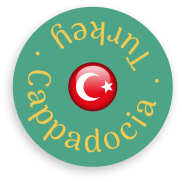
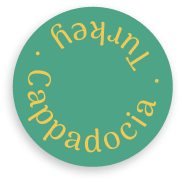
responsiv font image fixed

Changed region(s): [[0.3571, 0.3297, 0.6593, 0.6319]]

diff --git a/styles/basic.css b/styles/basic.css
@@ -54,7 +54,7 @@ body {
 
 .top {
   display: flex;
-  max-width: 99%;
+  max-width: 100%;
   position: relative;
   height: 515px;
   padding: 0px 12px;
@@ -142,9 +142,7 @@ body {
   justify-content: center;
   align-items: center;
   flex-direction: column;
-  /* padding-bottom: 137px; */
   width: 100%;
- 
 }
 .video_img {
   width: 931px;
@@ -159,21 +157,27 @@ body {
 
 }
 .description_content {
+  max-width: 100%;
 padding-left: 30px;
 padding-right: 16px;
 padding-bottom: 32px;
 font-size: 24px;
 line-height: 1;
 }
-.description_content ul {
+.description_content ol {
   margin: 16px 16px;
 }
 .desc_cont {
+  max-width: 100%;
   padding-top: 16px;
   margin: 0px 33.5px;
 }
 .desc_1{
   margin-bottom: 32px;
+}
+.left_max{
+  width: 100%;
+  align-items: start;
 }
 .tip_content {
   max-width: 100%;
@@ -182,7 +186,7 @@ line-height: 1;
   justify-content: center;
   align-items: center;
   position: relative;
-  padding: 0 34px;
+  padding: 24px 34px;
 }
 .tipps-icon {
   z-index: 2;
@@ -385,6 +389,10 @@ input[type="checkbox"] {
   max-width: 100%;
   font-size: 24px;
   margin-bottom: 16px;
+  margin-top: 16px;
+}
+.m_64{
+  margin-top: 64px;
 }
 .form_u {
   padding: 0px 16px;
@@ -523,7 +531,7 @@ input[type="checkbox"] {
     display: none;
   }
   .crs_1{
-    padding: 0px max{calc(50% - 720px)};
+    padding: 0px max(calc(50% - 720px));
   }
 }
 @media screen and (min-width: 1280px) {
@@ -546,7 +554,7 @@ input[type="checkbox"] {
     display: none;
   }
   .crs_1{
-    padding: 0px max{calc(50% - 720px)};
+    padding: 0px max(calc(50% - 720px));
   }
 }
 @media screen and (min-width: 484px) and (max-width: 767px) {
@@ -575,6 +583,9 @@ input[type="checkbox"] {
   }
   .scandy_tour{
     padding-bottom: 24px;
+  }
+  .description_content {
+    padding: 8px 16px;
   }
 }
 @media screen and (min-width: 4px) and (max-width: 840px) {
@@ -647,8 +658,7 @@ input[type="checkbox"] {
   }
   .description_content {
     font-size: 16px;
-    padding-bottom: 16px;
-    padding-top: 16px;
+    padding: 8px 16px;
   }
   .video_content{
     padding: 24px 0px;
@@ -700,6 +710,9 @@ input[type="checkbox"] {
   }
   .date_time{
     margin-bottom: 8px;
+  }
+  .m_64{
+    margin-top: 24px;
   }
 }
 @media screen and (min-width: 4px) and (max-width: 479px) {

diff --git a/index.html b/index.html
@@ -35,6 +35,7 @@
 
     <section class="top" id="home">
       <div class="img_pos"><img class="img_rotate " src="./img/Circle.png" alt="Drehendes Bild"></div>
+      <div class="img_pos1"><img src="./img/Flag_orb_Turkey 2.svg" alt="Türkei"></div>
       <div class="top_hero">
         <div class="top_font">
           <h1 class="arima700">Cappadocia</h1>
@@ -187,7 +188,7 @@
                 </div>
               </div>
 
-              <div class="form-group-1 palanquin500">
+              <div class="form-group-1 m_64 palanquin500">
                 <label>How can I help?</label>
                 <input type="text" class="form-control1" name="textarea_name" placeholder="">
                 </textarea>
@@ -196,8 +197,8 @@
             <div class="form-g">
               <div class="palanquin500 chk_font"><input type="checkbox"> I've read the <a class="contact_a"
                   href="#">privacy policy</a> and agree to the processing of my data as outlined.</div>
-              <div class="form-group1 arima700">
-                <input type="submit" class="btn btn-primary" name="button_name" value="Send" />
+              <div class="form-group1">
+                <input type="submit" class="btn btn-primary arima700" name="button_name" value="Send" />
               </div>
             </div>
           </form>

diff --git a/styles/slider.css b/styles/slider.css
@@ -121,12 +121,11 @@ input[type="radio"]:checked {
   left: 340px;
 }
 .img_rotate{
-  animation: rotating 4s linear infinite;
+  animation: rotating 10s linear infinite;
 }
 .top_hero{
   position: absolute;
   left: 0;
-  ;
   width: 647px;
   height: 540px;
   background-image: url(../img/Vector16.svg);
@@ -155,15 +154,17 @@ input[type="radio"]:checked {
 
 }
 @media screen and (min-width: 4px) and (max-width: 479px){
-  .img_pos{
-    top: 121px;
-    left: 71px;
-  }
+
+
 }
 @media screen and (min-width: 4px) and (max-width: 1110px) {
   .img_pos{
     top: 121px;
     left: 71px;
+  }
+  .img_pos1{
+    top: 175px;
+    left: -32px;
   }
   .top_hero{
     width: 220px;

diff --git a/carousel.html b/carousel.html
@@ -113,7 +113,7 @@
       </p>
     </section>
     <section class="description_content palanquin400 flex crs_1 m_64">
-      <div>
+      <div class="left_max">
         <p>
           Lorem ipsum dolor sit amet consectetur. Egestas a enim vestibulum
           malesuada.:

diff --git a/styles/style.css b/styles/style.css
@@ -181,9 +181,7 @@ details[open] summary::after {
   font-size: 16px;
 
 }
-/* summary::after{
-  font-size: 16px;
-} */
+
 details[open] p{
   font-size: 16px;
 }
